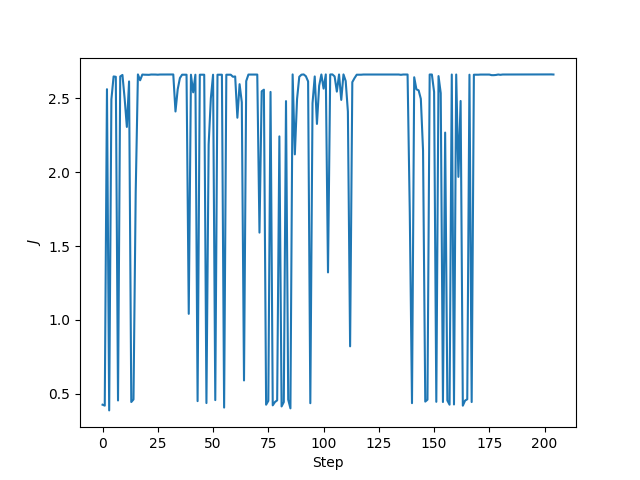
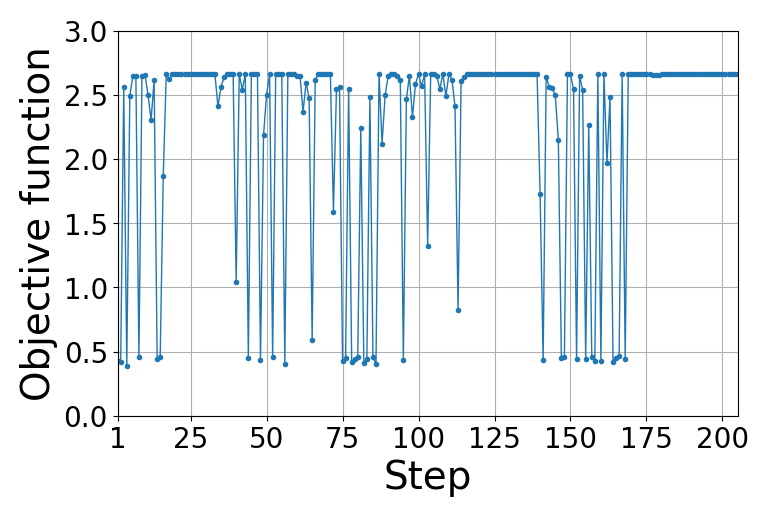
a

diff --git a/01_results/plotter.py b/01_results/plotter.py
@@ -58,7 +58,7 @@ df = pd.read_csv(
 print(df.head())
 
 # ndarrayへの変換
-y = df.to_numpy()[:50].T
+y = df.to_numpy()[:205].T
 print(f"ndarray: {y.shape = }, {len(y) = }")
 
 # yに対応するndarrayの生成
@@ -98,7 +98,7 @@ ndarray_for_yticks = np.arange(
 # <
 
 # > x axis
-step_xticks = 10  # 最大値，最小値を元に設定
+step_xticks = 25  # 最大値，最小値を元に設定
 ndarray_for_xticks = np.arange(0, len(x)+1, step=step_xticks)[1:]
 ndarray_for_xticks = np.insert(ndarray_for_xticks, 0, 1)  # 0番目に1を挿入
 # ndarray_for_xticks = np.arange(1, len(x)+1, step_xticks)

diff --git a/01_results/plot_setting.py b/01_results/plot_setting.py
@@ -4,8 +4,8 @@ import matplotlib.pyplot as plt
 
 # パス関連
 dirname = os.path.dirname(os.path.abspath(__file__))
-src_dir = os.path.join(dirname, "cobyla_1")
-obj_dir = os.path.join(dirname, "cobyla_1")
+src_dir = os.path.join(dirname, "bayes_2")
+obj_dir = os.path.join(dirname, "bayes_2")
 tmp = "J_log"
 src_filename = tmp + ".csv"
 obj_filename = tmp + ".png"
